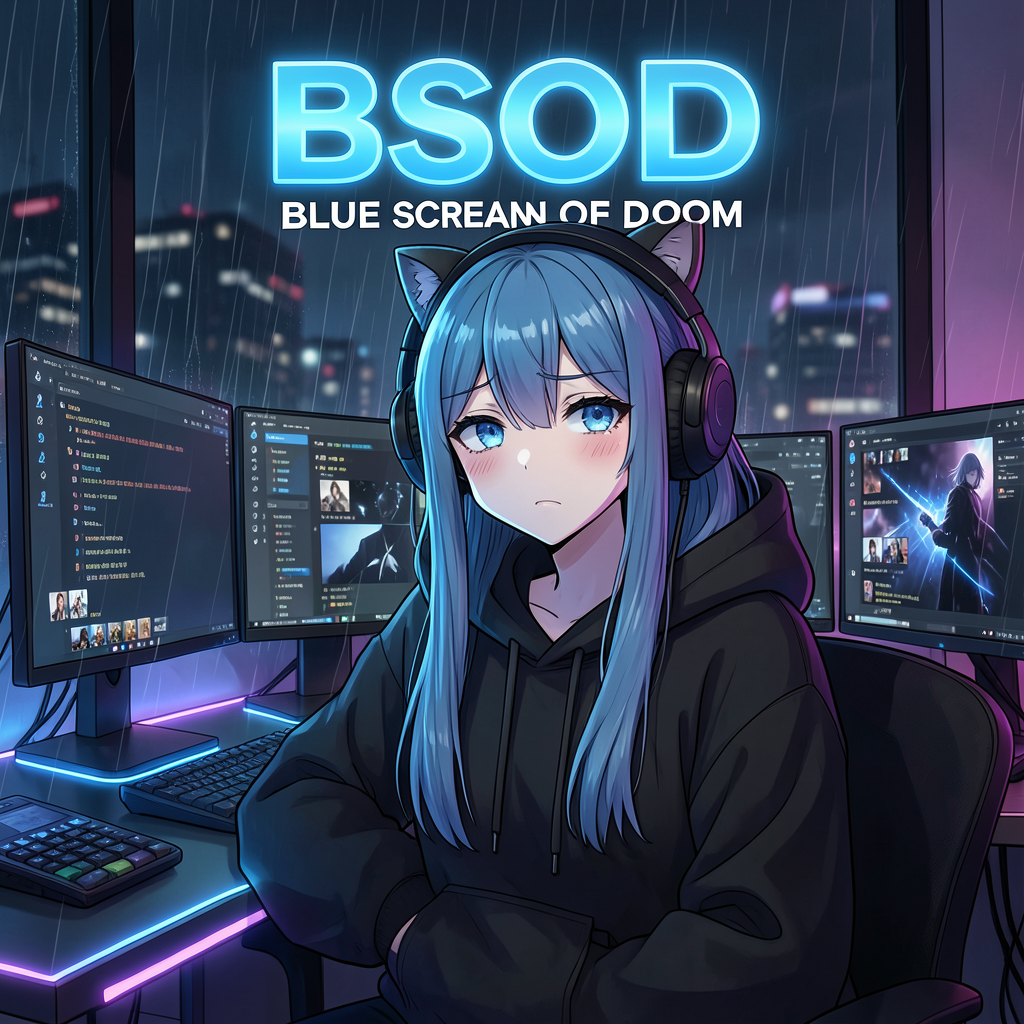
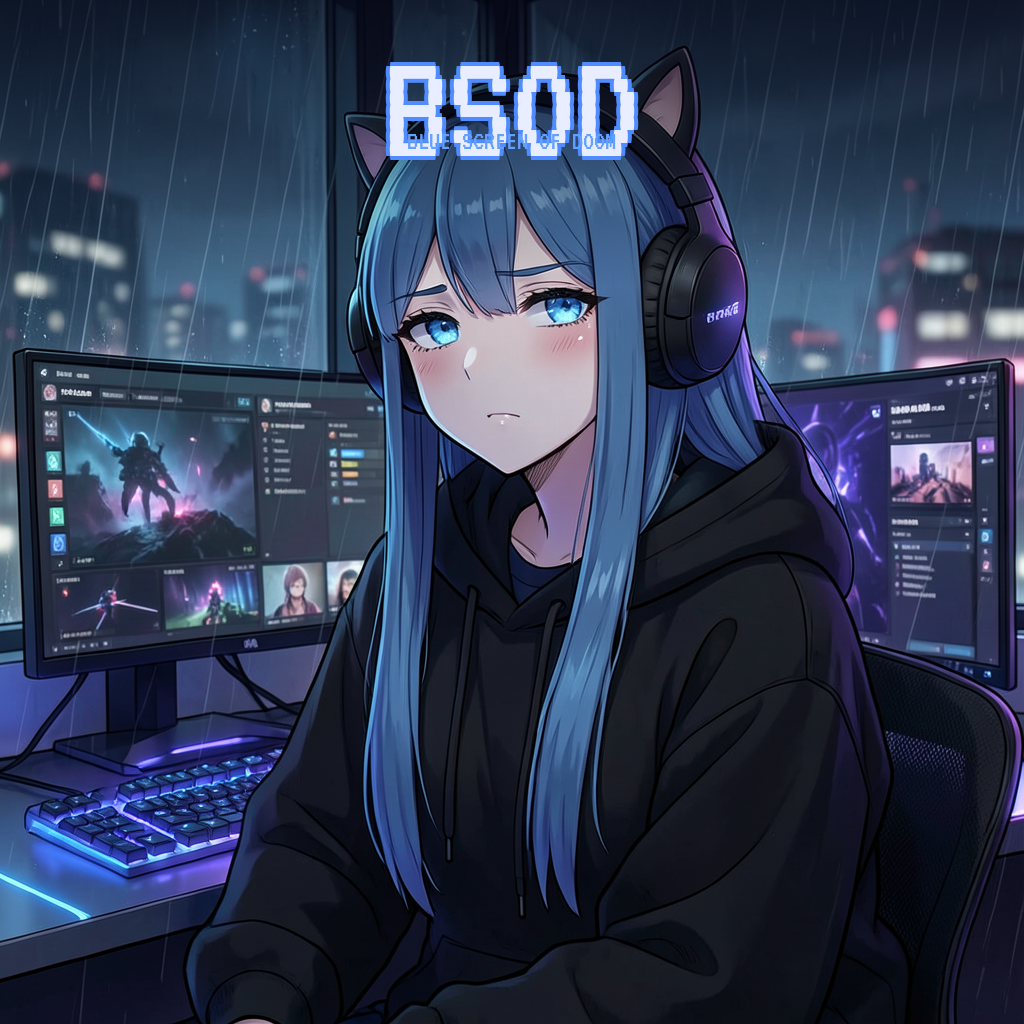
feat: regenerate poster with correct Laisa design + VT323 pixel title
- No bangs, cat-ear headphones, blue hair, black hoodie
- PIL post-processing adds VT323 pixel-font BSOD title + subtitle
- Prompt excludes text generation (AI text unreliable)

diff --git a/generate_poster.py b/generate_poster.py
@@ -1,30 +1,32 @@
 #!/usr/bin/env python3
-"""Generate BSOD game poster with Laisa character via Flux2 Klein."""
+"""Generate BSOD game poster with Laisa character + PIL pixel-font text overlay."""
 
 import json, time, random, urllib.request, urllib.parse, shutil, os
+from PIL import Image, ImageDraw, ImageFont, ImageFilter
 
 COMFYUI_URL = "http://127.0.0.1:8188"
 IMG_DIR = os.path.join(os.path.dirname(os.path.abspath(__file__)), "src/BSOD/img")
 os.makedirs(IMG_DIR, exist_ok=True)
 
-# Square poster: 1024x1024
 W, H = 1024, 1024
 
+# Laisa: blue hair NO bangs, cat-ear headphones, black hoodie
+# No text in image — added via PIL post-processing
 PROMPT = (
     "game key art poster, anime illustration style, "
-    "young woman streamer, long straight blue hair no bangs hair swept behind ears forehead fully visible, "
-    "large black over-ear headphones with small cat ears on top, "
-    "black oversized hoodie, pale skin, blue eyes, "
-    "sitting at a glowing gaming desk, multiple monitors showing streaming interface and chat, "
-    "dark rainy night atmosphere, neon blue and purple glow from screens, "
-    "dramatic lighting, cinematic composition, "
-    "tired but determined expression, looking at camera, "
-    "rain streaks on window behind her, city lights blurred in background, "
-    "dark moody color palette, blue and purple tones, volumetric light from monitors, "
-    "bold title text \"BSOD\" at the top center in large glowing blue letters, "
-    "subtitle text \"BLUE SCREEN OF DOOM\" below the title in smaller white letters, "
-    "high quality anime game art, detailed, atmospheric"
+    "young woman streamer, long straight blue hair, "
+    "absolutely no bangs no fringe, hair parted in middle swept behind ears, "
+    "clean forehead fully visible, "
+    "large black over-ear headphones with small cat-ear shapes on top of headphone cups, "
+    "black oversized hoodie, pale skin, bright blue eyes, "
+    "sitting at a glowing gaming desk with multiple monitors showing streaming interface, "
+    "dark rainy night, neon blue and purple glow from screens, "
+    "rain streaks on window behind her, blurred city lights, "
+    "dramatic side lighting, tired but focused expression looking at camera, "
+    "dark moody atmosphere, blue and purple color palette, "
+    "cinematic game key art, highly detailed anime illustration"
 )
+
 
 def build_workflow(prompt, seed):
     return {
@@ -92,7 +94,60 @@ def download(filename, subfolder, out_path):
     with urllib.request.urlopen(f"{COMFYUI_URL}/view?{params}", timeout=60) as r:
         with open(out_path, "wb") as f:
             shutil.copyfileobj(r, f)
-    print(f"  → {os.path.basename(out_path)}  ({os.path.getsize(out_path)//1024} KB)")
+    print(f"  → raw image saved ({os.path.getsize(out_path)//1024} KB)")
+
+
+def add_text_overlay(img_path, out_path):
+    """Composite pixel-font title + subtitle onto the poster."""
+    font_path = "/tmp/VT323-Regular.ttf"
+    if not os.path.exists(font_path):
+        print("  VT323 font not found at /tmp/VT323-Regular.ttf — skipping text overlay")
+        shutil.copy(img_path, out_path)
+        return
+
+    img = Image.open(img_path).convert("RGBA")
+    W, H = img.size
+
+    # Dark gradient at top so title is readable
+    gradient = Image.new("RGBA", (W, H), (0, 0, 0, 0))
+    draw_grad = ImageDraw.Draw(gradient)
+    for y in range(int(H * 0.28)):
+        alpha = int(180 * (1 - y / (H * 0.28)))
+        draw_grad.line([(0, y), (W, y)], fill=(4, 6, 20, alpha))
+    img = Image.alpha_composite(img, gradient)
+
+    draw = ImageDraw.Draw(img)
+
+    # ── Main title: BSOD ─────────────────────────────────────────────────────
+    title_size = 160
+    font_title = ImageFont.truetype(font_path, title_size)
+    title = "BSOD"
+    bbox = draw.textbbox((0, 0), title, font=font_title)
+    tw = bbox[2] - bbox[0]
+    tx = (W - tw) // 2
+    ty = 28
+
+    # Blue glow layers
+    for dx, dy, alpha in [(-4, 0, 40), (4, 0, 40), (0, -4, 40), (0, 4, 40),
+                           (-2, 0, 70), (2, 0, 70), (0, -2, 70), (0, 2, 70)]:
+        draw.text((tx + dx, ty + dy), title, font=font_title,
+                  fill=(80, 140, 255, alpha))
+    # Main white text
+    draw.text((tx, ty), title, font=font_title, fill=(232, 238, 255, 240))
+
+    # ── Subtitle: BLUE SCREEN OF DOOM ────────────────────────────────────────
+    sub_size = 28
+    font_sub = ImageFont.truetype(font_path, sub_size)
+    subtitle = "BLUE SCREEN OF DOOM"
+    sbbox = draw.textbbox((0, 0), subtitle, font=font_sub)
+    sw = sbbox[2] - sbbox[0]
+    sx = (W - sw) // 2
+    sy = ty + (bbox[3] - bbox[1]) + 8
+    draw.text((sx, sy), subtitle, font=font_sub, fill=(100, 160, 255, 160))
+
+    out = img.convert("RGB")
+    out.save(out_path, "PNG", optimize=True)
+    print(f"  → {os.path.basename(out_path)} with text overlay ({os.path.getsize(out_path)//1024} KB)")
 
 
 if __name__ == "__main__":
@@ -108,10 +163,17 @@ if __name__ == "__main__":
     pid = api_post("/prompt", {"prompt": wf})["prompt_id"]
     print(f"  id: {pid[:8]}...")
     entry = wait(pid)
+
+    raw_path = os.path.join(IMG_DIR, "poster_raw.png")
+    out_path = os.path.join(IMG_DIR, "poster.png")
+
     for node_out in entry["outputs"].values():
         for img in node_out.get("images", []):
-            out = os.path.join(IMG_DIR, "poster.png")
-            download(img["filename"], img["subfolder"], out)
+            download(img["filename"], img["subfolder"], raw_path)
             break
 
-    print(f"\nDone! → {IMG_DIR}/poster.png")
+    print("Adding pixel-font text overlay...")
+    add_text_overlay(raw_path, out_path)
+    os.remove(raw_path)
+
+    print(f"\nDone! → {out_path}")
